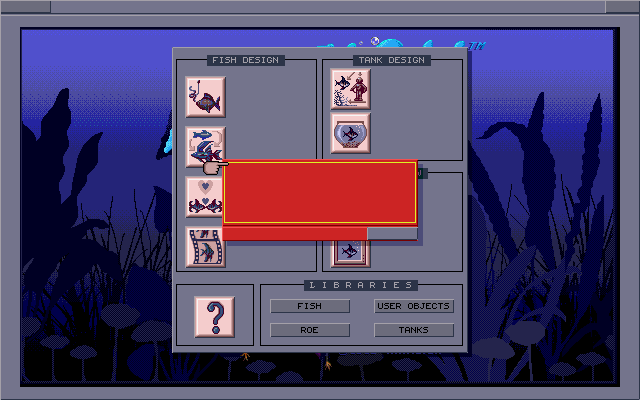
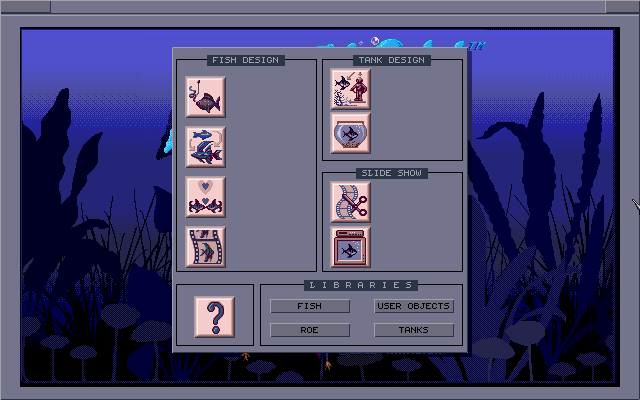
Implement the mouse; the menu draws clean
The red panel over the main menu was the mouse. INT 33h AX=0000 is how a program
asks whether a mouse exists, and it wants AX=FFFF and a button count back; the
stub left AX at whatever the caller had, which reads as "not installed". The game
never polled for one after that, and its cursor code sat on a stale save area and
painted it as a solid rectangle -- over the SLIDE SHOW panel, which is now
visible. The menu renders complete: fish design, tank design, slide show,
libraries.

INT 33h now answers reset, show/hide, get/set position and the button-count
calls. The pointer sits in the middle of the screen and no button is ever down,
because there is no window to take real movement from yet.

Also adds what the game asked for on its way there:

- DOS directory search, AH=1A/4E/4F. Results go into the caller's DTA the way DOS
  does it, with the search state in the reserved bytes at the front, so two scans
  can be open at once. Wildcards are matched 8.3-style. The game enumerates its
  fish and tank libraries this way -- `\FISH\*.FSH` finds nothing on a fresh
  install, correctly, because no fish have been hatched yet.
- ELFISH_KEYS scripts a key sequence into INT 16h, since there is no window to
  type into and the game only advances when something presses a key.
- ELFISH_DUMP_AT picks which poll to capture a frame on.

2,103 -> 2,197 functions. README screenshot retaken.

Changed region(s): [[0.3125, 0.39, 0.6875, 0.63]]

diff --git a/runtime/tsxlib_stubs.c b/runtime/tsxlib_stubs.c
@@ -11,6 +11,7 @@
 #include <string.h>
 #include <ctype.h>
 #include <sys/stat.h>
+#include <dirent.h>
 #include <stdlib.h>
 #include <conio.h>
 #include <windows.h>
@@ -155,6 +156,87 @@ void catz_div0(const char *op) {
     fprintf(stderr, "DIVIDE BY ZERO in %s\n", op);
 }
 
+/* ---- Directory search (INT21 AH=1A/4E/4F) ----
+ * DOS returns search results by writing a 43-byte block into the caller's DTA
+ * and keeps its own state in the first 21 bytes of it, so a find-next knows
+ * where the previous find got to. We do the same, storing a slot index there,
+ * which is what lets two searches be open at once without one clobbering the
+ * other. The game enumerates its fish and tank libraries this way.
+ * ponytail: 8 concurrent searches, and a directory read in one go at find-first
+ * so a file appearing mid-scan cannot confuse it. */
+#define DTA_MAGIC 0x454C  /* "EL" -- marks a block as one of ours */
+#define MAX_FIND  8
+
+static struct {
+    int   used;
+    char  pattern[16];   /* the 8.3 mask, uppercased */
+    char  dir[512];      /* host directory being walked */
+    char  names[512][16];
+    int   count, pos;
+} g_find[MAX_FIND];
+
+static uint16_t g_dta_seg, g_dta_off;   /* INT21 AH=1A */
+
+/* Match a DOS 8.3 mask. `*` runs to the end of its field, `?` is one character;
+ * name and mask are both "NAME.EXT" with the dot present only if there is one. */
+static int dos_match(const char *mask, const char *name) {
+    for (;;) {
+        if (*mask == '*') {
+            /* Skip to this field's end in both, then keep comparing. */
+            while (*mask && *mask != '.') mask++;
+            while (*name && *name != '.') name++;
+            continue;
+        }
+        if (!*mask && !*name) return 1;
+        if (!*mask || !*name) return 0;
+        if (*mask != '?' && *mask != *name) return 0;
+        mask++; name++;
+    }
+}
+
+/* Split a mapped host path into its directory and the mask on the end. */
+static void split_mask(const char *path, char *dir, int dmax, char *mask, int mmax) {
+    const char *slash = strrchr(path, '/');
+    if (slash) {
+        int n = (int)(slash - path);
+        if (n >= dmax) n = dmax - 1;
+        memcpy(dir, path, n); dir[n] = 0;
+        snprintf(mask, mmax, "%s", slash + 1);
+    } else {
+        snprintf(dir, dmax, ".");
+        snprintf(mask, mmax, "%s", path);
+    }
+    for (char *q = mask; *q; q++) *q = (char)toupper((unsigned char)*q);
+}
+
+/* Write one result into the DTA and report success. */
+static void find_emit(CPU *cpu, int slot) {
+    const char *nm = g_find[slot].names[g_find[slot].pos++];
+    char full[600];
+    snprintf(full, sizeof(full), "%s/%s", g_find[slot].dir, nm);
+    struct stat st;
+    unsigned long size = (stat(full, &st) == 0) ? (unsigned long)st.st_size : 0;
+    unsigned attr = (stat(full, &st) == 0 && (st.st_mode & S_IFDIR)) ? 0x10u : 0x20u;
+
+    uint16_t s = g_dta_seg, o = g_dta_off;
+    mem_write16(cpu, s, o, DTA_MAGIC);
+    mem_write16(cpu, s, (uint16_t)(o + 2), (uint16_t)slot);
+    mem_write8(cpu, s, (uint16_t)(o + 0x15), (uint8_t)attr);
+    mem_write16(cpu, s, (uint16_t)(o + 0x16), 0);          /* time */
+    mem_write16(cpu, s, (uint16_t)(o + 0x18), 0x2101);     /* date: 1993-08-01 */
+    mem_write16(cpu, s, (uint16_t)(o + 0x1A), (uint16_t)(size & 0xFFFF));
+    mem_write16(cpu, s, (uint16_t)(o + 0x1C), (uint16_t)(size >> 16));
+    for (int i = 0; i < 13; i++)
+        mem_write8(cpu, s, (uint16_t)(o + 0x1E + i), (uint8_t)(i < 12 ? nm[i] : 0));
+    cpu->flags &= ~FLAG_CF;
+    cpu->ax = 0;
+}
+
+static void find_fail(CPU *cpu) {
+    cpu->flags |= FLAG_CF;
+    cpu->ax = 18;   /* no more files */
+}
+
 /* ---- Software interrupts ---- */
 void dos_int21(CPU *cpu)
 {
@@ -282,6 +364,53 @@ void dos_int21(CPU *cpu)
         else { cpu->cx = (uint16_t)attr; cpu->flags &= ~FLAG_CF; }
         break;
     }
+    case 0x1A:  /* set DTA: DS:DX is where search results get written */
+        g_dta_seg = cpu->ds; g_dta_off = cpu->dx;
+        break;
+
+    case 0x4E: {  /* find first: DS:DX=mask, CX=attributes */
+        char name[256], path[512], dir[512], mask[16];
+        read_asciiz(cpu, cpu->ds, cpu->dx, name, sizeof(name));
+        map_path(name, path, sizeof(path));
+        split_mask(path, dir, sizeof(dir), mask, sizeof(mask));
+        int slot = -1;
+        for (int k = 0; k < MAX_FIND; k++) if (!g_find[k].used) { slot = k; break; }
+        if (slot < 0) slot = 0;    /* all busy: reuse the oldest rather than fail */
+        DIR *d = opendir(dir);
+        TRACE("INT21 findfirst '%s' -> dir=%s mask=%s %s\n", name, dir, mask,
+              d ? "ok" : "NO DIR");
+        if (!d) { find_fail(cpu); break; }
+        g_find[slot].used = 1; g_find[slot].count = g_find[slot].pos = 0;
+        snprintf(g_find[slot].dir, sizeof(g_find[slot].dir), "%s", dir);
+        snprintf(g_find[slot].pattern, sizeof(g_find[slot].pattern), "%s", mask);
+        struct dirent *e;
+        while ((e = readdir(d)) && g_find[slot].count < 512) {
+            if (e->d_name[0] == '.') continue;   /* . .. and dotfiles */
+            char up[16];
+            snprintf(up, sizeof(up), "%s", e->d_name);
+            for (char *q = up; *q; q++) *q = (char)toupper((unsigned char)*q);
+            if (dos_match(mask, up))
+                snprintf(g_find[slot].names[g_find[slot].count++], 16, "%s", up);
+        }
+        closedir(d);
+        if (!g_find[slot].count) { g_find[slot].used = 0; find_fail(cpu); break; }
+        find_emit(cpu, slot);
+        break;
+    }
+
+    case 0x4F: {  /* find next: state lives in the DTA the last call wrote */
+        if (mem_read16(cpu, g_dta_seg, g_dta_off) != DTA_MAGIC) { find_fail(cpu); break; }
+        int slot = (int)mem_read16(cpu, g_dta_seg, (uint16_t)(g_dta_off + 2));
+        if (slot < 0 || slot >= MAX_FIND || !g_find[slot].used) { find_fail(cpu); break; }
+        if (g_find[slot].pos >= g_find[slot].count) {
+            g_find[slot].used = 0;   /* exhausted; the slot is free again */
+            find_fail(cpu);
+            break;
+        }
+        find_emit(cpu, slot);
+        break;
+    }
+
     case 0x36:  /* get free disk space: DL=drive -> AX=sectors/cluster,
                  * BX=free clusters, CX=bytes/sector, DX=total clusters.
                  * An ordinary roomy FAT volume; the game only wants to know
@@ -616,8 +745,36 @@ void bios_int10(CPU *cpu)
  * ponytail: console only. SDL takes over once there is a video window. */
 static int kb_pending = -1;   /* one-key pushback for the peek/read pair */
 
+/* ELFISH_KEYS feeds a scripted key sequence, because there is no window to type
+ * into yet and the game only advances when something presses a key. Characters go
+ * as-is; a backslash escape covers the ones you cannot put in an environment
+ * variable: \r Enter, \e Esc, \n newline, \\ a backslash.
+ * ELFISH_KEY_EVERY (default 400) is how many INT 16h polls to wait between them,
+ * so the game finishes reacting to one before the next arrives. */
+static int kb_scripted(void) {
+    static const char *next;
+    static long every, polls;
+    if (!next) {
+        const char *e = getenv("ELFISH_KEYS");
+        next = e ? e : "";
+        e = getenv("ELFISH_KEY_EVERY");
+        every = e ? atol(e) : 400;
+        if (every < 1) every = 1;
+    }
+    if (!*next || ++polls % every) return -1;
+    int c = (unsigned char)*next++;
+    if (c == '\\' && *next) {
+        int esc = (unsigned char)*next++;
+        c = esc == 'r' ? 13 : esc == 'n' ? 10 : esc == 'e' ? 27 : esc;
+    }
+    fprintf(stderr, "key %02X\n", c);
+    return (c & 0xFF) | ((c & 0xFF) << 8);
+}
+
 static int kb_poll(void) {
     if (kb_pending >= 0) return kb_pending;
+    int s = kb_scripted();
+    if (s >= 0) return (kb_pending = s);
     if (!_kbhit()) return -1;
     int c = _getch();
     if (c == 0 || c == 0xE0) kb_pending = (_getch() & 0xFF) << 8;  /* AL=0, AH=scan */
@@ -656,7 +813,44 @@ void bios_int16(CPU *cpu)
         break;
     }
 }
-void mouse_int33(CPU *cpu) { TRACE("INT33 ax=%04X\n", cpu->ax); (void)cpu; }
+/* ---- Mouse (INT 33h) ----
+ * The reset call decides whether the game believes there is a mouse at all: it
+ * wants AX=FFFF and a button count, and the old stub left AX at whatever the
+ * caller had, which reads as "no mouse". A mouse-driven menu then never polls
+ * for one. There is no window to take real movement from yet, so the pointer
+ * sits still in the middle of the screen and no button is ever down.
+ * ponytail: position is fixed until SDL provides a real one. */
+static int g_mouse_x = VESA_WIDTH / 2, g_mouse_y = VESA_HEIGHT / 2, g_mouse_shown;
+
+void mouse_int33(CPU *cpu)
+{
+    TRACE("INT33 ax=%04X\n", cpu->ax);
+    switch (cpu->ax) {
+    case 0x0000:   /* reset and detect */
+        cpu->ax = 0xFFFF;   /* installed */
+        cpu->bx = 2;        /* two buttons */
+        g_mouse_shown = 0;
+        break;
+    case 0x0001: g_mouse_shown = 1; break;   /* show cursor */
+    case 0x0002: g_mouse_shown = 0; break;   /* hide cursor */
+    case 0x0003:   /* get position and buttons */
+        cpu->bx = 0;                        /* nothing pressed */
+        cpu->cx = (uint16_t)g_mouse_x;
+        cpu->dx = (uint16_t)g_mouse_y;
+        break;
+    case 0x0004:   /* set position */
+        g_mouse_x = cpu->cx; g_mouse_y = cpu->dx;
+        break;
+    case 0x0005: case 0x0006:   /* button press / release counts since last ask */
+        cpu->ax = 0; cpu->bx = 0;
+        cpu->cx = (uint16_t)g_mouse_x;
+        cpu->dx = (uint16_t)g_mouse_y;
+        break;
+    default:
+        /* Ranges, sensitivity, event handlers: accepted and ignored. */
+        break;
+    }
+}
 void int_handler(CPU *cpu, int int_num) { TRACE("INT %02X\n", int_num); (void)cpu; (void)int_num; }
 
 /* ---- TSXLIB ordinals ----

diff --git a/README.md b/README.md
@@ -10,15 +10,12 @@ That is the recompiled `ELFISH.EXE` running as a native Windows program: 640x400
 through a VESA banked framebuffer, the palette uploaded through the DAC ports, drawn
 by the game's own lifted code. No emulator, no DOSBox.
 
-Startup runs **2,103 distinct functions** deep -- through the title screen and into
+Startup runs **2,197 distinct functions** deep -- through the title screen and into
 the main menu -- and settles in the game's keyboard/timer poll loop, waiting for
 input. On the way it loads `ELFISH.RED`, reads and rewrites `ELFISH.INS`, validates
 the data directories it names, probes the DOS file-handle limit, initialises the
 mouse, detects VESA, sets mode 0x100, and loads `XX_MDR.DLL`, `\SYSTEM\EPICTURE.DBP`
 and the title artwork.
-
-The red panel over the middle of the menu is not yet understood; it is drawn by the
-game, not by us, and it is where a preview should be.
 
 Capture a frame yourself:
 
@@ -37,7 +34,9 @@ python tools/ppm2png.py menu.ppm menu.png
 - TSXLIB: memory alloc/free with real reclaim, `int86x` (ordinal 32) and DPMI
   simulate-real-mode-interrupt (ordinal 72)
 - BIOS: INT 10h text and palette calls, VBE 1.2 (one mode, banked window), INT 16h
-  keyboard against the host console, INT 33h mouse
+  keyboard against the host console (or a scripted `ELFISH_KEYS` sequence), INT 33h mouse
+- DOS directory search (AH=1A/4E/4F) with DOS wildcard matching, so the game can
+  enumerate its fish and tank libraries
 - A VGA register file — CRTC, sequencer, graphics, attribute, DAC — that reads back
   what was written, because the driver checks
 - CMake/Ninja build → `elfish_test.exe`, link-clean
@@ -47,7 +46,6 @@ python tools/ppm2png.py menu.ppm menu.png
 |-------|-------|---------------|
 | **x87 instructions dropped** | **17,355** | The decoder names only 1,574 of the FPU ops; the rest come out as `esc_N` and are lifted to a comment. Segments 225/228-231 are the fish genetics and rendering engine, so almost none of the actual simulation runs yet. Biggest single gap. |
 | No display or input yet | — | The framebuffer is real memory and can be dumped; it needs an SDL2 window, and the keyboard needs wiring to it |
-| Red panel on the main menu | 1 | Drawn by the game where a preview should be; not an error dialog (the message-box routine is not called) |
 | Sound | — | Not started: AdLib/SB/MT-32 via `XX_MDR*.DLL` |
 | Unresolved call targets | 96 | Emitted as stubs that do nothing but clean up the caller's stack frame |
 | Dropped out-of-function branches | 42 | Targets that are not instruction boundaries, almost all inside FPU-emulation trampolines |
@@ -140,8 +138,8 @@ cmake --build .
    comment, which is most of the maths in the fish engine. Nothing simulates until this does.
 2. **SDL2 window** for the framebuffer that already exists, and route its keyboard and
    mouse into the INT 16h/33h handlers.
-3. Work out the red panel on the main menu, and drive the UI: the game is sitting in
-   its poll loop, so the next real test is feeding it a keypress and a mouse click.
+3. Drive the UI. `ELFISH_KEYS` can already script keypresses; the mouse reports a
+   fixed position, so real pointer movement is what the menu still needs.
 4. The `XX_MDR*.DLL` driver system, which the game opens but we do not load.
 5. Sound.
 
